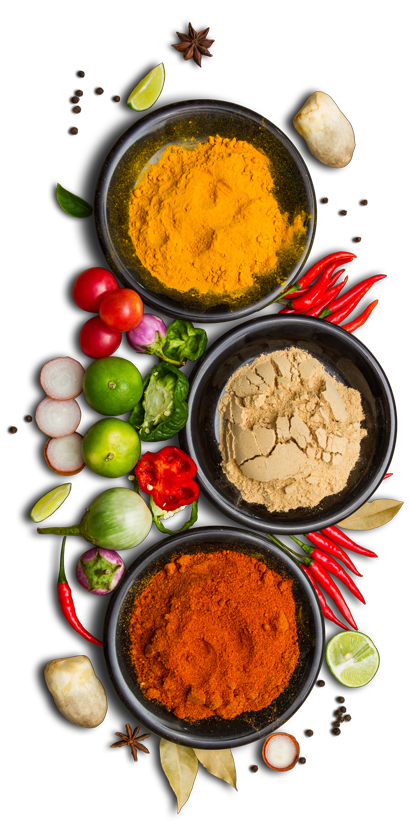
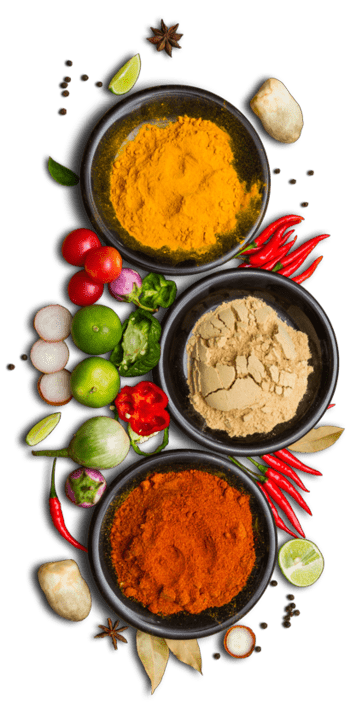
Swaped imgaes into lighter and implemented some animiation

diff --git a/src/components/WhySection/WhySection.tsx b/src/components/WhySection/WhySection.tsx
@@ -1,6 +1,7 @@
 import styles from './WhySection.module.scss';
 import { Icon } from '@iconify/react';
 import frame from '../../assets/img/frame.png';
+import { AnimeFeature } from '../AnimeFeature/AnimeFeature';
 
 export const WhySection = () => {
 	return (
@@ -12,6 +13,8 @@ export const WhySection = () => {
 				</p>
 
 				<div className={styles.why__features}>
+
+				<AnimeFeature>
 					<div className={styles.feature}>
 						<Icon icon='fluent-emoji-high-contrast:leafy-green' className={styles.feature__icon}/>
 						<h3 className={styles.feature__name}>Świeże składniki</h3>
@@ -20,13 +23,18 @@ export const WhySection = () => {
 							autentyczny smak Orientu.
 						</p>
 					</div>
-                    
+				</AnimeFeature>
+
+				<AnimeFeature delay={0.2}>
 					<div className={styles.feature}>
 						<Icon icon='teenyicons:discount-solid' className={styles.feature__icon}/>
 						<h3 className={styles.feature__name}>Najlepsze oferty</h3>
 						<p className={styles.feature__text}>Nasz priorytet to dostarczanie klientom najatrakcyjniejszych ofert w kuchni azjatyckiej.</p>
 					</div>
+				</AnimeFeature>    
 
+
+				<AnimeFeature delay={0.4}>
 					<div className={styles.feature}>
 						<Icon icon='carbon:delivery' className={styles.feature__icon}/>
 						<h3 className={styles.feature__name}>Szybka dostawa</h3>
@@ -34,6 +42,7 @@ export const WhySection = () => {
 							Zamówienia obsługujemy błyskawicznie, aby dostarczyć Ci smaki Azji bez zbędnego czekania. Szybka dostawa to nasza specjalność.
 						</p>
 					</div>
+				</AnimeFeature> 
 				</div>
 			</div>
 

diff --git a/src/components/AnimeFeature/AnimeFeature.tsx b/src/components/AnimeFeature/AnimeFeature.tsx
@@ -1,0 +1,32 @@
+import {motion} from 'framer-motion';
+import { useInView } from 'react-intersection-observer';
+
+interface Props {
+    children: React.ReactNode;
+    delay?: number;
+    duration?: number;
+}
+
+export const AnimeFeature = ({children, delay, duration=0.5}: Props) => {
+    const {ref, inView} = useInView({
+        triggerOnce: true,
+        rootMargin: '-200px 0px',
+    });
+
+  const variants = {
+		hidden: { opacity: 0, x: 100,},
+		visible: {opacity: 1, x: 0,}
+	};
+
+    return(
+        <motion.div
+            ref={ref}
+            initial="hidden"
+            animate={inView ? "visible" : "hidden"}
+            variants={variants}
+            transition={{delay, duration}}
+            >
+            {children}
+        </motion.div>
+    );
+}

diff --git a/src/components/HomeSection/HomeSection.tsx b/src/components/HomeSection/HomeSection.tsx
@@ -25,6 +25,9 @@ export const HomeSection = () => {
 	return (
 		<section className={styles.home} id='home'>
 			<div className={styles.wrapper}>
+
+				<div className={styles.testContainer}>
+
 				<h1 className={styles.home__title}>
 					Z nami odkryjesz orientalne smaki <span>Azji</span>
 				</h1>
@@ -58,6 +61,8 @@ export const HomeSection = () => {
 				{isMobile ? <SocialsBox className={styles.home__socials}/> 
 				: 
 				<button className={styles.home__menuBtn} onClick={()=>setMenuShown(true)}>Zobacz Menu</button>}
+				</div>
+
 
 				<a ref={cta} href='#about' className={styles.home__cta}>
 					<IoIosArrowDown />

diff --git a/src/components/HomeSection/HomeSection.module.scss b/src/components/HomeSection/HomeSection.module.scss
@@ -40,6 +40,13 @@
 		position: relative;
 	}
 
+	.testContainer {
+		height: 100%;
+		width: 100%;
+		animation: slide-in-tl 1.5s cubic-bezier(0.25, 0.46, 0.45, 0.94) both;
+		animation-delay: 0.5s;
+	}
+
 	&__title {
 		padding-top: 4em;
 		margin-bottom: 2em;
@@ -88,7 +95,7 @@
 		position: absolute;
 		bottom: 0;
 		left: 0;
-		padding: 0.8em;
+		padding: 1em 0.5em;
 	}
 
 	&__cta {

diff --git a/src/components/SocialsBox/SocialsBox.module.scss b/src/components/SocialsBox/SocialsBox.module.scss
@@ -5,7 +5,7 @@
 .socialsBox {
 	display: flex;
 	gap: 1.5rem;
-	font-size: 4rem;
+	font-size: 3.4rem;
 
 	a {
 		scale: 1;
@@ -15,11 +15,5 @@
 		&:hover {
 			scale: 1.2;
 		}
-	}
-}
-
-@media(min-width: 768px) {
-	.socialsBox {
-		font-size: 3.4rem;
 	}
 }

diff --git a/src/sass/_animations.scss b/src/sass/_animations.scss
@@ -95,3 +95,15 @@
 		opacity: 1;
 	}
 }
+
+@keyframes slide-in-tl {
+  0% {
+    transform: translateY(-10px) translateX(-30px);
+    opacity: 0;
+  }
+  100% {
+    transform: translateY(0) translateX(0);
+    opacity: 1;
+  }
+}
+

diff --git a/src/components/WhySection/WhySection.module.scss b/src/components/WhySection/WhySection.module.scss
@@ -1,5 +1,6 @@
 @import '../../sass/mixins';
 @import '../../sass/colors';
+@import '../../sass/animations';
 
 .why {
 	@include section;
